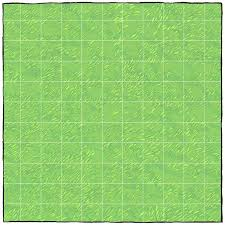
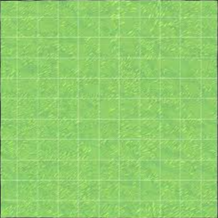
snake in resting poistion

diff --git a/EasyGrid.java b/EasyGrid.java
@@ -9,13 +9,21 @@ import greenfoot.*;  // (World, Actor, GreenfootImage, Greenfoot and MouseInfo)
 public class EasyGrid extends World
 {
 
-    /**
-     * Constructor for objects of class EasyGrid.
-     * 
-     */
+    public static final int GRID_SIZE = 20;
     public EasyGrid()
     {    
-        super(600, 400, 1); 
-        addObject(new Snake(), 300, 300);
+        super(218, 218, 1); 
+        setBackground("easy_grid.png");
+        addObject(new SnakeParts("tail.png"), 130, 110);
+        addObject(new SnakeParts("middle.png"), 110, 110);
+        addObject(new SnakeParts("head0.png"), 90, 110);
+        prepare();
+    }
+    /**
+     * Prepare the world for the start of the program.
+     * That is: create the initial objects and add them to the world.
+     */
+    private void prepare()
+    {
     }
 }

diff --git a/SnakeParts.java b/SnakeParts.java
@@ -1,0 +1,23 @@
+import greenfoot.*;  // (World, Actor, GreenfootImage, Greenfoot and MouseInfo)
+
+/**
+ * Write a description of class SnakeParts here.
+ * 
+ * @author (your name) 
+ * @version (a version number or a date)
+ */
+public class SnakeParts extends Actor
+{
+    public SnakeParts(String picture)
+    {
+        setImage(picture);
+        GreenfootImage img = new GreenfootImage(picture);
+        img.scale(20, 20);
+        setImage(img);
+
+    }
+    public void act()
+    {
+        // Add your action code here.
+    }
+}

diff --git a/TitlePage.java b/TitlePage.java
@@ -11,15 +11,9 @@ public class TitlePage extends World
     private EasyButton easyBtn; 
     
     public TitlePage()
-<<<<<<< HEAD
     {    
         super(600, 300, 1);
-        
-        // Set your custom background image
-=======
-    {            
-        super(600, 400, 1);
->>>>>>> 2a1ade1e1c1c9648a5eb3dc64bdcfb7f3ae51d8e
+
         setBackground(new GreenfootImage("backgroundSnake.png"));
         
         prepare();
